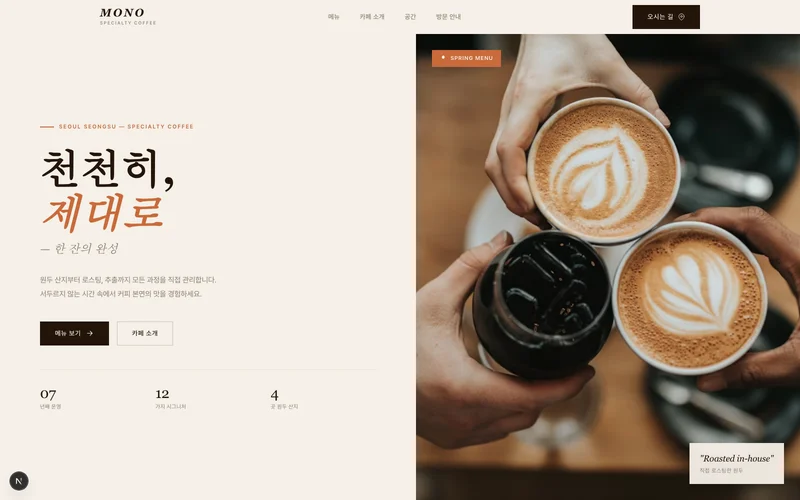
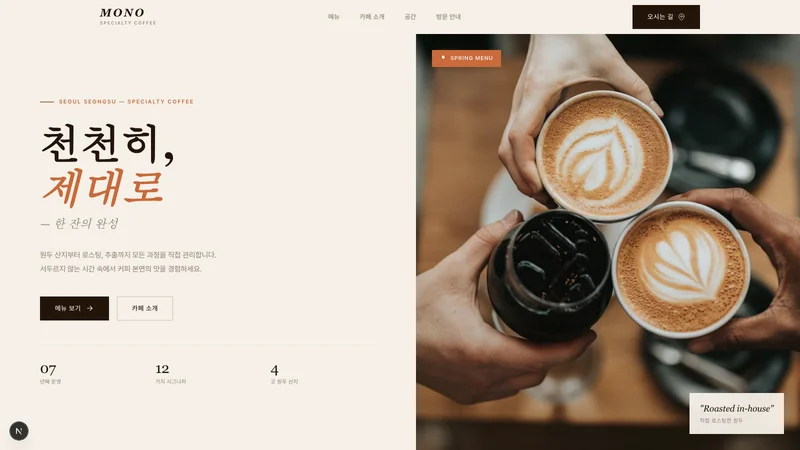
fix(template): 썸네일 16:9로 카드 비율 일치 + navbar 상단 고정
증상: /templates 카드가 aspect-video(16:9)인데 썸네일이 800x500(16:10)
이라 object-cover가 위아래를 가운데 기준으로 잘라 navbar가 안 보였음.

- 전 템플릿 thumbnail.config.ts viewport 1600x900 / resize 800x450 (16:9)
  → hero 클립이 그대로 카드 비율과 일치, 상단(navbar+히어로) 고정
- 카드 이미지에 object-top 추가(PublicTemplateGrid/DynamicTemplateGrid/
  CreateProjectClient/admin 리스트) — 비율이 달라도 navbar가 안 잘리게
- 전 템플릿 재캡처(800x450)

diff --git a/src/components/templates/DynamicTemplateGrid.tsx b/src/components/templates/DynamicTemplateGrid.tsx
@@ -113,7 +113,7 @@ export default function DynamicTemplateGrid({ templates: initialTemplates, mySit
                 <img
                   src={template.thumbnailUrl}
                   alt={template.name}
-                  className="h-full w-full object-cover transition-transform duration-500 group-hover:scale-105"
+                  className="h-full w-full object-cover object-top transition-transform duration-500 group-hover:scale-105"
                 />
               ) : (
                 <div className="flex h-full w-full items-center justify-center">

diff --git a/src/components/templates/PublicTemplateGrid.tsx b/src/components/templates/PublicTemplateGrid.tsx
@@ -95,7 +95,7 @@ export default function PublicTemplateGrid({ templates: initialTemplates, catego
                 // eslint-disable-next-line @next/next/no-img-element
                 <img
                   alt={template.name}
-                  className="h-full w-full object-cover transition-transform duration-500 group-hover:scale-105"
+                  className="h-full w-full object-cover object-top transition-transform duration-500 group-hover:scale-105"
                   src={template.thumbnailUrl}
                 />
               ) : (

diff --git a/src/templates/corporate/multipage/thumbnail.config.ts b/src/templates/corporate/multipage/thumbnail.config.ts
@@ -2,10 +2,10 @@ const config = {
   // Render the real Multi home page through the preset preview route so the
   // thumbnail reflects the actual renderer + tokens + imagery.
   source: 'preview://corporate-multipage',
-  viewport: { width: 1600, height: 1000 },
+  viewport: { width: 1600, height: 900 },
   capture: 'hero',
   output: 'public/thumbnails/template-corporate-multipage.webp',
-  resize: { width: 800, height: 500 },
+  resize: { width: 800, height: 450 },
   waitFor: { fonts: true, networkIdle: true, minDelay: 500 },
 };
 

diff --git a/src/templates/outdoor/default/thumbnail.config.ts b/src/templates/outdoor/default/thumbnail.config.ts
@@ -2,10 +2,10 @@ const config = {
   // Render the real Multi home page through the preset preview route so the
   // thumbnail reflects the actual renderer + tokens + imagery.
   source: 'preview://outdoor-default',
-  viewport: { width: 1600, height: 1000 },
+  viewport: { width: 1600, height: 900 },
   capture: 'hero',
   output: 'public/thumbnails/template-outdoor-default.webp',
-  resize: { width: 800, height: 500 },
+  resize: { width: 800, height: 450 },
   waitFor: { fonts: true, networkIdle: true, minDelay: 800 },
 };
 

diff --git a/src/app/(authenticated)/dashboard/(with-sidebar)/projects/create/CreateProjectClient.tsx b/src/app/(authenticated)/dashboard/(with-sidebar)/projects/create/CreateProjectClient.tsx
@@ -98,7 +98,7 @@ export default function CreateProjectClient({ template }: CreateProjectClientPro
                 <img
                   src={template.thumbnailUrl}
                   alt={template.name}
-                  className="h-full w-full object-cover"
+                  className="h-full w-full object-cover object-top"
                 />
               ) : (
                 <span className="text-caption text-muted-foreground">{t.noPreview}</span>

diff --git a/src/app/admin/templates/TemplateListPanel.tsx b/src/app/admin/templates/TemplateListPanel.tsx
@@ -175,7 +175,7 @@ export default function TemplateListPanel({
                     // eslint-disable-next-line @next/next/no-img-element
                     <img
                       alt={template.name}
-                      className="h-full w-full object-cover"
+                      className="h-full w-full object-cover object-top"
                       src={template.thumbnailUrl}
                     />
                   ) : (

diff --git a/src/templates/corporate/default/thumbnail.config.ts b/src/templates/corporate/default/thumbnail.config.ts
@@ -1,9 +1,9 @@
 const config = {
   source: 'preview://corporate-default',
-  viewport: { width: 1600, height: 1000 },
+  viewport: { width: 1600, height: 900 },
   capture: 'hero',
   output: 'public/thumbnails/template-corporate-default.webp',
-  resize: { width: 800, height: 500 },
+  resize: { width: 800, height: 450 },
   waitFor: { fonts: true, networkIdle: true, minDelay: 500 },
 };
 

diff --git a/src/templates/interior/default/thumbnail.config.ts b/src/templates/interior/default/thumbnail.config.ts
@@ -1,9 +1,9 @@
 const config = {
   source: 'preview://interior-default',
-  viewport: { width: 1600, height: 1000 },
+  viewport: { width: 1600, height: 900 },
   capture: 'hero',
   output: 'public/thumbnails/template-interior-default.webp',
-  resize: { width: 800, height: 500 },
+  resize: { width: 800, height: 450 },
   waitFor: { fonts: true, networkIdle: true, minDelay: 500 },
 };
 

diff --git a/src/templates/fitness/default/thumbnail.config.ts b/src/templates/fitness/default/thumbnail.config.ts
@@ -1,9 +1,9 @@
 const config = {
   source: 'preview://fitness-default',
-  viewport: { width: 1600, height: 1000 },
+  viewport: { width: 1600, height: 900 },
   capture: 'hero',
   output: 'public/thumbnails/template-fitness-default.webp',
-  resize: { width: 800, height: 500 },
+  resize: { width: 800, height: 450 },
   waitFor: { fonts: true, networkIdle: true, minDelay: 500 },
 };
 

diff --git a/src/templates/medical/default/thumbnail.config.ts b/src/templates/medical/default/thumbnail.config.ts
@@ -1,9 +1,9 @@
 const config = {
   source: 'preview://medical-default',
-  viewport: { width: 1600, height: 1000 },
+  viewport: { width: 1600, height: 900 },
   capture: 'hero',
   output: 'public/thumbnails/template-medical-default.webp',
-  resize: { width: 800, height: 500 },
+  resize: { width: 800, height: 450 },
   waitFor: { fonts: true, networkIdle: true, minDelay: 500 },
 };
 

diff --git a/src/templates/wedding/default/thumbnail.config.ts b/src/templates/wedding/default/thumbnail.config.ts
@@ -1,9 +1,9 @@
 const config = {
   source: 'preview://wedding-default',
-  viewport: { width: 1600, height: 1000 },
+  viewport: { width: 1600, height: 900 },
   capture: 'hero',
   output: 'public/thumbnails/template-wedding-default.webp',
-  resize: { width: 800, height: 500 },
+  resize: { width: 800, height: 450 },
   waitFor: { fonts: true, networkIdle: true, minDelay: 500 },
 };
 

diff --git a/src/templates/legal/default/thumbnail.config.ts b/src/templates/legal/default/thumbnail.config.ts
@@ -1,9 +1,9 @@
 const config = {
   source: 'preview://legal-default',
-  viewport: { width: 1600, height: 1000 },
+  viewport: { width: 1600, height: 900 },
   capture: 'hero',
   output: 'public/thumbnails/template-legal-default.webp',
-  resize: { width: 800, height: 500 },
+  resize: { width: 800, height: 450 },
   waitFor: { fonts: true, networkIdle: true, minDelay: 500 },
 };
 
